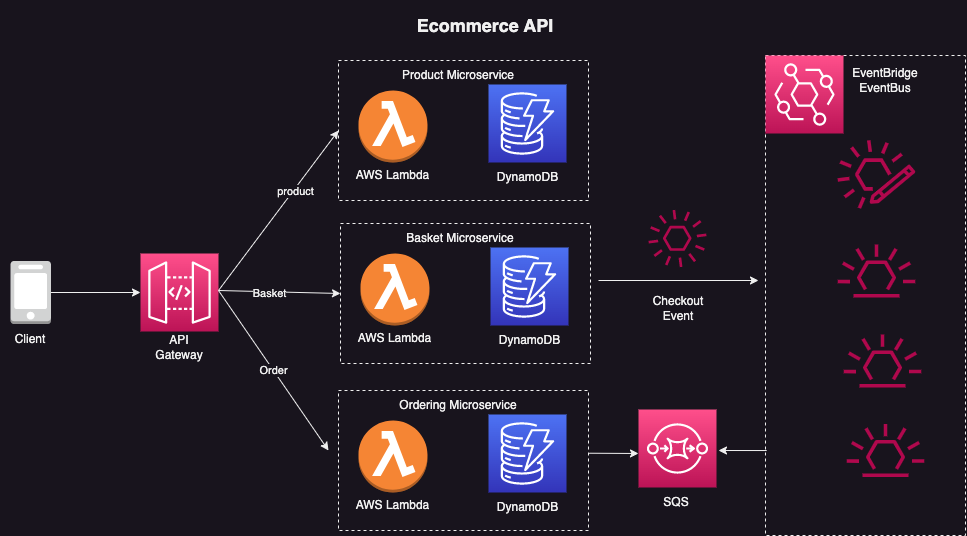
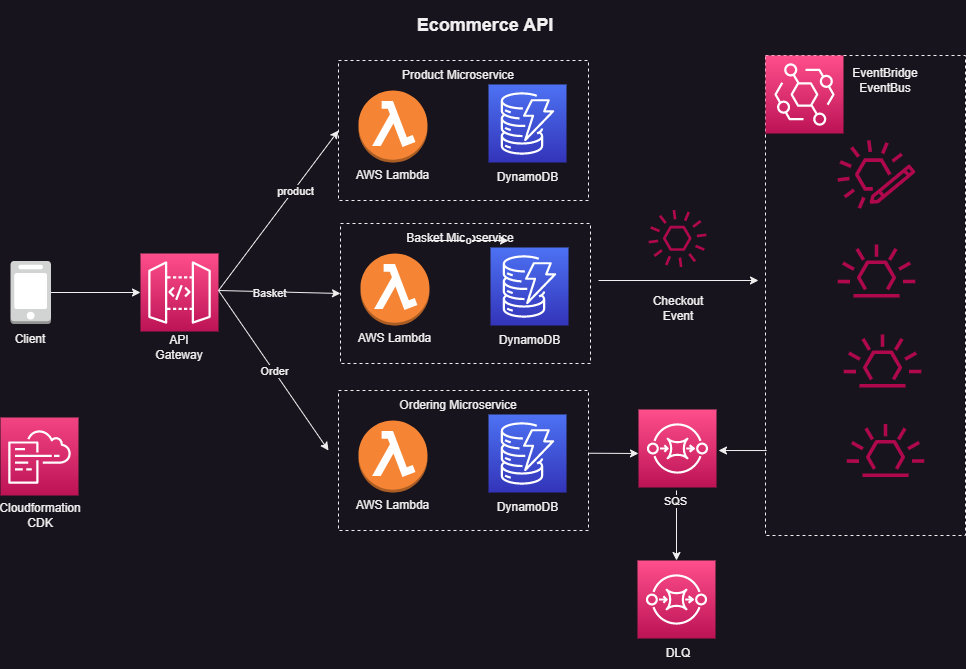
add fault tolerance using queue between microservices

diff --git a/cdk-services/lib/cdk-services-stack.ts b/cdk-services/lib/cdk-services-stack.ts
@@ -4,6 +4,7 @@ import { EcomAuctionDatabase } from "./database";
 import { EcomAuctionServices } from "./microservices";
 import { EcomAuctionApiGateway } from "./apigateway";
 import { EcomAuctionEventBus } from "./eventbus";
+import { EcomAuctionQueue } from "./queue";
 
 export class CdkServicesStack extends Stack {
   constructor(scope: Construct, id: string, props?: StackProps) {
@@ -30,9 +31,15 @@ export class CdkServicesStack extends Stack {
       orderMicroService: microservices.orderMicroservice,
     });
 
+    const queue = new EcomAuctionQueue(this, "Queue", {
+      // sqs requires consumer that pulls events from sqs
+      consumer: microservices.orderMicroservice,
+    });
+
     const eventBus = new EcomAuctionEventBus(this, "EventBus", {
       publisherFunction: microservices.basketMicroservice,
-      targetFunction: microservices.orderMicroservice,
+      // targetFunction: microservices.orderMicroservice,
+      targetQueue: queue.orderQueue,
     });
   }
 }
@@ -88,7 +95,7 @@ export class CdkServicesStack extends Stack {
  */
 
 /**
- * Standard Queues: offer maximum throughput, best effort ordering and at least once delivery, unlimited throughput
+ * Standard Queues: offer maximum throughput than FIFO, best effort ordering and at least once delivery, unlimited throughput, cheaper than FIFO
  * FIFO Queues: designed to guarantee that messages are processed and delivered exactly once, in the exact order that they are sent, limited to 300 messages per second per API action without batching and 3000 with batching
  *
  * Use Standard Queue if processing duplicates and out of order messages. Use FIFO when ordering of message is must and duplicates are not accepted at any cost
@@ -96,6 +103,12 @@ export class CdkServicesStack extends Stack {
  * SQS queues are dynamically created and scale automatcically
  * SQS locks your messages during processing, so multiple producers
  * can send and multiple consumers can receice messages at the same time
+ * There is visibility timeout for both standard and FIFO
+ * The number of inflight messages is limited to 20,000 in FIFO queue
+ * A message is considered to be in flight after it is received from a queue by a consumer, but not yet deleted from the queue
+ *
+ * keep the number of messages with the same message group id low in FIFO queue
+ * implement a dead-letter queue so that messages that fail processing are quickly moved out of the main queue
  *
  * SQS scales automatically with your application so you don't have to worry
  * about capacity planning and pre provisioning. There is no limit to the number of messages per queue,
@@ -139,4 +152,11 @@ export class CdkServicesStack extends Stack {
  * Examing logs for exceptions that might have caused messages to be moved to a DLQ
  * Analyze the contents of messages moved to DLQ
  * Determine wether you have given your consumer sufficient time to process messages
+ */
+
+/**
+ * Lambda worker will poll the queue and invoke
+ * our lambda function synchronously with an event that contains queue message
+ * lambda is executed once for each batch and received a triggered event
+ * sqs as event source of order microservice
  */

diff --git a/cdk-services/lib/queue.ts b/cdk-services/lib/queue.ts
@@ -1,0 +1,47 @@
+import { Duration } from "aws-cdk-lib";
+import { IFunction } from "aws-cdk-lib/aws-lambda";
+import { SqsEventSource } from "aws-cdk-lib/aws-lambda-event-sources";
+import { IQueue, Queue } from "aws-cdk-lib/aws-sqs";
+import { Construct } from "constructs";
+
+interface EcomAuctionProps {
+  consumer: IFunction;
+}
+
+export class EcomAuctionQueue extends Construct {
+  // this will be a target queue of event bridge thats why we will make it public property
+  public readonly orderQueue: IQueue;
+
+  constructor(scope: Construct, id: string, props: EcomAuctionProps) {
+    super(scope, id);
+
+    // Send things to me if you don't know what to do with it.
+    const deadLetterQueue = new Queue(this, "eventSequencingDLQueue", {
+      queueName: "OrderQueueDLQ",
+      deliveryDelay: Duration.millis(0),
+      retentionPeriod: Duration.days(14), // default 4 days
+    });
+
+    // it requires to connect with Ordering micorservice
+    // for event source mapping polling queues
+    this.orderQueue = new Queue(this, "OrderQueue", {
+      queueName: "OrderQueue",
+      visibilityTimeout: Duration.seconds(30), // 6*3 also default
+      deadLetterQueue: {
+        maxReceiveCount: 1,
+        queue: deadLetterQueue,
+      },
+      retentionPeriod: Duration.seconds(300), // 5 minutes
+    });
+
+    // sqs polling checkout basket event with the event source mappings for all the microservices
+    // event source mapping invocation type
+    // like i had asyncrhnous, synchronous invocation type
+    // event source mapping function get required permission
+    props.consumer.addEventSource(
+      new SqsEventSource(this.orderQueue, {
+        batchSize: 1, // no of records lambda function receives
+      })
+    );
+  }
+}

diff --git a/cdk-services/lib/eventbus.ts b/cdk-services/lib/eventbus.ts
@@ -1,11 +1,13 @@
 import { IFunction } from "aws-cdk-lib/aws-lambda";
 import { Construct } from "constructs";
 import { EventBus, Rule } from "aws-cdk-lib/aws-events";
-import { LambdaFunction } from "aws-cdk-lib/aws-events-targets";
+import { LambdaFunction, SqsQueue } from "aws-cdk-lib/aws-events-targets";
+import { IQueue } from "aws-cdk-lib/aws-sqs";
 
 interface EcomAuctionEventBusProps {
   publisherFunction: IFunction; // basket microservice
-  targetFunction: IFunction; // SQS queue to order microservice
+  // targetFunction: IFunction; // SQS queue to order microservice
+  targetQueue: IQueue;
 }
 
 export class EcomAuctionEventBus extends Construct {
@@ -30,7 +32,8 @@ export class EcomAuctionEventBus extends Construct {
     });
 
     // target function only to be consumed if event comes from this source and detailType
-    checkoutBasketRule.addTarget(new LambdaFunction(props.targetFunction));
+    // checkoutBasketRule.addTarget(new LambdaFunction(props.targetFunction));
+    checkoutBasketRule.addTarget(new SqsQueue(props.targetQueue));
 
     // grant permissions to publisher function to push events to custom event bus
     bus.grantPutEventsTo(props.publisherFunction);

diff --git a/cdk-services/src/order-service/model.ts b/cdk-services/src/order-service/model.ts
@@ -8,7 +8,7 @@ import {
 import { TDetail } from "./types";
 import createError from "http-errors";
 import { ddbClient } from "./ddbClient";
-import { APIGatewayEvent, AttributeValue } from "aws-lambda";
+import { APIGatewayEvent, AttributeValue, SQSEvent } from "aws-lambda";
 
 export const createOrder = async (basketCheckoutEventDetail: TDetail) => {
   try {
@@ -91,4 +91,17 @@ export const getAllOrders = async (event: APIGatewayEvent) => {
     console.log(err);
     throw createError.InternalServerError(err?.message as string);
   }
+};
+
+export const sqsInvocation = async (event: SQSEvent) => {
+  // Records only 1 because batchSize has been set 1 by me
+  event.Records.forEach(async (record) => {
+    console.log({ record });
+    // expected record.body : { "detail-type\":\"CheckoutBasket\",\"source\":\"com.swn.basket.checkoutbasket\", "detail\":{\"userName\":\"swn\",\"totalPrice\":1820, .. }
+    const checkoutEventRequest = JSON.parse(record.body);
+
+    // create order item into db
+    return await createOrder(checkoutEventRequest.detail);
+    // detail object should be checkoutbasket json object
+  });
 };

diff --git a/cdk-services/src/order-service/index.ts b/cdk-services/src/order-service/index.ts
@@ -1,13 +1,14 @@
-import { APIGatewayEvent, EventBridgeEvent } from "aws-lambda";
+import { APIGatewayEvent, EventBridgeEvent, SQSEvent } from "aws-lambda";
 
-import { createOrder, getAllOrders, getOrder } from "./model";
+import { createOrder, getAllOrders, getOrder, sqsInvocation } from "./model";
 import { TDetail, TDetailType } from "./types";
 
 export const handler = async (
-  event: EventBridgeEvent<TDetailType, TDetail> & APIGatewayEvent
+  event: EventBridgeEvent<TDetailType, TDetail> & APIGatewayEvent & SQSEvent
 ) => {
-  const eventType = event["detail-type"];
-  if (eventType) {
+  if (event.Records) {
+    return await sqsInvocation(event);
+  } else if (event["detail-type"]) {
     // EventBridge Invocation
     return await eventBridgeInvocation(event);
   } else {

diff --git a/README.md b/README.md
@@ -16,15 +16,18 @@ Using Queue Chaining, Publish-Subscribe, Fan-out design patterns
 
 <img src="readmeimages/layers.png" style="max-width: 100%; height: auto; object-fit: contain;">
 
-| Pattern           | Service              |
-| ----------------- | -------------------- |
-| Queue Chaining    | SQS                  |
-| Event Bus         | Event Bridge         |
-| Pub/sub (fan-out) | SNS                  |
-| Orchestration     | Step Functions       |
-| API               | AppSync/ API Gateway |
-| Event Streams     | Kinesis              |
-| Chreography       | Event Bridge         |
+| Pattern              | Service              |
+| -------------------- | -------------------- |
+| Topic-Queue Chaining | SQS                  |
+| Load balancing       | SQS                  |
+| Event Bus            | Event Bridge         |
+| Pub/sub (fan-out)    | SNS                  |
+| Orchestration        | Step Functions       |
+| API (REST/Graphql)   | AppSync/ API Gateway |
+| Event Streams        | Kinesis              |
+| Chreography          | Event Bridge         |
+| Saga Pattern         | Step functions       |
+| Circuit Breaker      | Dynamo DB, Lambda    |
 
 The following are all the usecases covered in the api.
 
